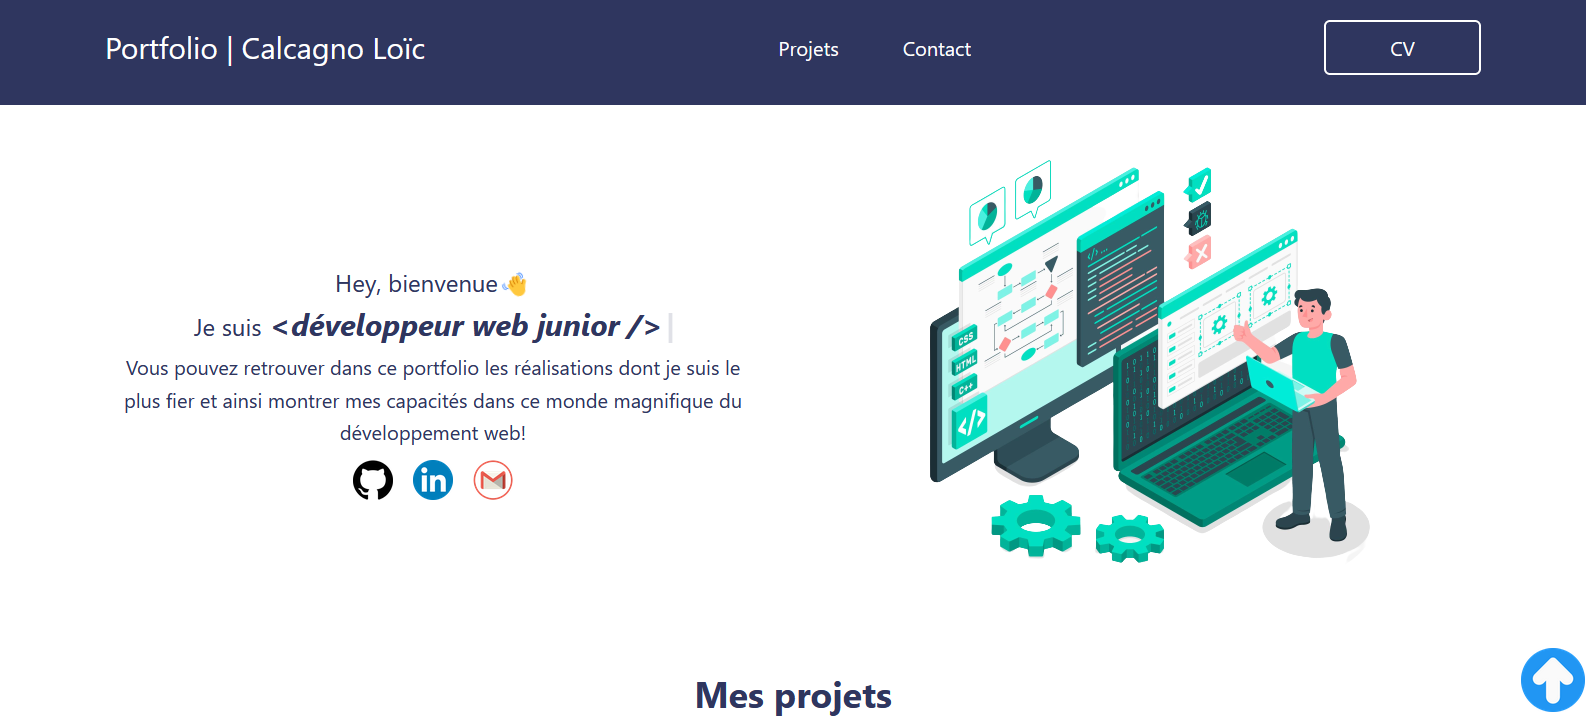
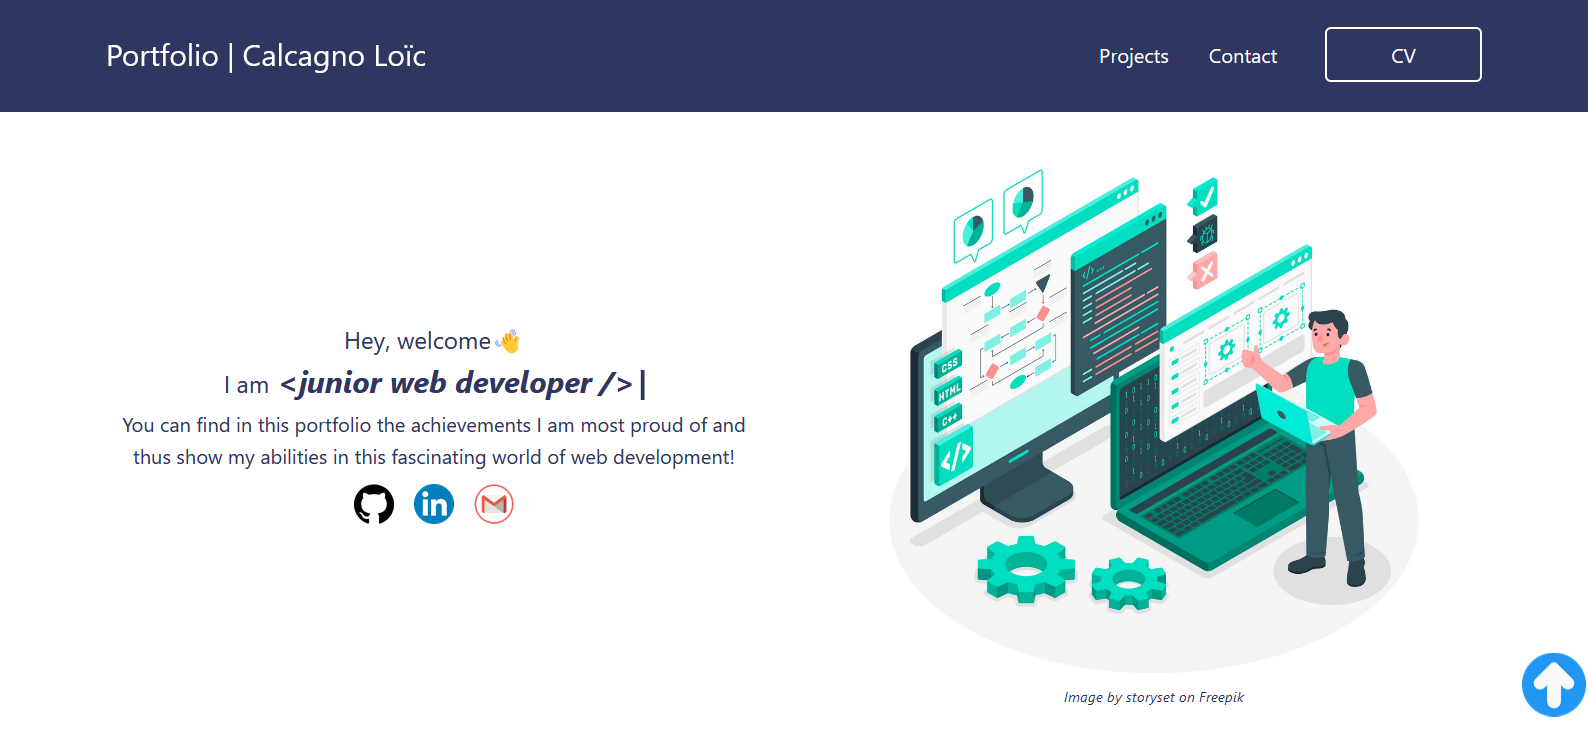
navbar responsive

diff --git a/src/components/navbar.jsx b/src/components/navbar.jsx
@@ -1,18 +1,41 @@
 import cv from '../assets/CV_dev.pdf';
+import hamburger from '../assets/img/icon-hamburger.svg';
+import close from '../assets/img/icon-close.svg';
+import { useState } from 'react';
 
 const Navbar = () => {
+    // eslint-disable-next-line
+    const [menu, setMenu] = useState(false);
+
     return (
-        <nav className="flex flex-col py-6 pl-28 pr-28 justify-between xl:flex-row bg-dark-blue">
-            <div className="self-center">
-                <p id='top' className="text-[20px] md:text-3xl xl:text-3xl sm:text-2xl text-white text-center xl:text-left break-words">Portfolio | Calcagno Loïc</p>
+        <nav className="flex flex-row py-6 pl-5 pr-5 sm:pl-28 sm:pr-28 justify-between xl:flex-row  bg-dark-blue">
+            <div className='w-full z-20 flex justify-between'>
+                <div className='flex self-center'>
+                    <p id='top' className="text-[20px] md:text-3xl xl:text-3xl sm:text-2xl text-white xl:text-left break-words">Portfolio | Calcagno Loïc</p>
+                </div>
+                <div onClick={() => setMenu(!menu)} className="hover:cursor-pointer md:hidden z-20 self-center">
+                    <img src={hamburger} alt="Logo menu hamburger" className={`${menu === true ? 'hidden' : '' }`}/>
+                    <img src={close} alt="Logo menu closed" className={`${menu === false ? 'hidden' : '' } fixed right-5 top-8`}/>
+                </div>
             </div>
-            <div className="flex gap-16 self-center mt-5 mb-5 lg:my-5 md:my-5 sm:my-5"> 
-                <a className="text-white text-[18px] sm:text-xl xl:text-xl md:text-xl hover:cursor-pointer hover:italic hover:underline hover:underline-offset-[10px]" href='#projects'>Projects</a>
-                <a className="text-white text-[18px] sm:text-xl xl:text-xl md:text-xl hover:cursor-pointer hover:italic hover:underline hover:underline-offset-[10px]" href='#contact'>Contact</a>
-            </div>
-            <div className="self-center mt-3 xl:mt-0">
-                <a href={cv} target={"_blank"} rel="noreferrer" className="text-white text-base hover:cursor-pointer border-white border-2 px-8 py-2 sm:px-12 xl:px-16 xl:py-3 md:px-16 md:py-3 rounded-md text-[18px] sm:text-xl xl:text-xl md:text-xl hover:border-none hover:text-dark-blue hover:bg-white duration-1000">CV</a>
-            </div>
+            
+            <nav className={`fixed top-[-100vh] left-0 right-0 h-screen bg-dark-blue transition-all duration-700 md:hidden ${menu === true ? 'top-[0]' : ''}`} onClick={() => setMenu(!menu)}>
+                <div className="flex flex-col gap-16 justify-center mt-5 mb-5 lg:my-5 md:my-5 sm:my-5 md:flex md:gap-10 px-5 items-center h-full" > 
+                    <a className="text-white text-3xl hover:cursor-pointer hover:italic hover:underline hover:underline-offset-[10px]" href='#projects'>Projects</a>
+                    <a className="text-white text-3xl hover:cursor-pointer hover:italic hover:underline hover:underline-offset-[10px]" href='#contact'>Contact</a>
+                    <a href={cv} target={"_blank"} rel="noreferrer" className="text-white  hover:cursor-pointer border-white border-2 px-12 py-3 sm:px-12 xl:px-16 xl:py-3 md:px-16 md:py-3 rounded-md text-3xl hover:border-none hover:text-dark-blue hover:bg-white duration-1000">CV</a>
+                </div>
+            </nav>
+
+            <nav className='hidden md:flex md:gap-12'>
+                <div className="flex gap-16 self-center mt-5 mb-5 lg:my-5 md:my-5 sm:my-5 md:flex md:gap-10"> 
+                    <a className="text-white text-[18px] xl:text-xl md:text-xl hover:cursor-pointer hover:italic hover:underline hover:underline-offset-[10px]" href='#projects'>Projects</a>
+                    <a className="text-white text-[18px] xl:text-xl md:text-xl hover:cursor-pointer hover:italic hover:underline hover:underline-offset-[10px]" href='#contact'>Contact</a>
+                </div>
+                <div className="self-center mt-3 xl:mt-0">
+                    <a href={cv} target={"_blank"} rel="noreferrer" className="text-white text-base hover:cursor-pointer border-white border-2 px-8 py-2 xl:px-16 xl:py-3 md:px-16 md:py-3 rounded-md text-[18px] xl:text-xl md:text-xl hover:border-none hover:text-dark-blue hover:bg-white duration-1000">CV</a>
+                </div>
+            </nav>
         </nav>
     );
 }

diff --git a/src/components/presentation.jsx b/src/components/presentation.jsx
@@ -11,7 +11,7 @@ const Presentation = () => {
             <div className='flex flex-col justify-center basis-1/2'>
                 <div className='flex flex-row justify-center'>
                     <p className='text-2xl text-dark-blue text-center'>Hey, welcome</p>
-                    <span className='text-2xl animate-wave'>👋</span>
+                    <span className='text-2xl md:animate-wave'>👋</span>
                 </div>
                 <h1 className='text-center text-dark-blue text-2xl mt-2'>I am
                 <span className='italic text-2xl md:text-3xl font-bold break-words'>

diff --git a/src/components/footer.jsx b/src/components/footer.jsx
@@ -26,8 +26,8 @@ const Footer = () => {
             
             <p className="text-white text-center">&copy; 2023 Copyright - Calcagno Loïc</p>
 
-            <a href='#top' rel='norefferer' className='absolute'>
-                <img src={ANCHOR} className='animate-bounce w-8 md:w-16 right-2 bottom-1 fixed' alt="" />
+            <a href='#top' rel='norefferer' className='absolute z-0'>
+                <img src={ANCHOR} className='animate-bounce w-8 md:w-16 right-2 bottom-1 fixed' alt="Arrow up" />
             </a>
         </div>
     )
